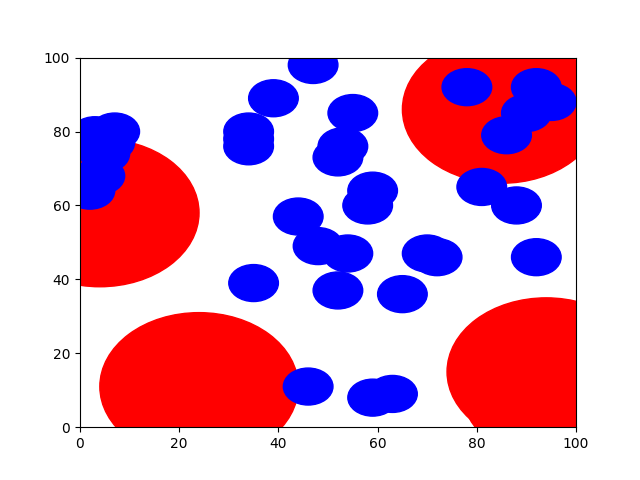
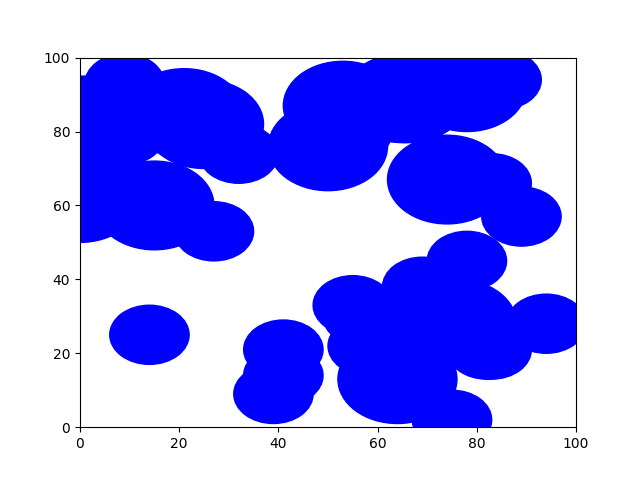
Add files via upload

diff --git a/genetic2.py b/genetic2.py
@@ -4,16 +4,21 @@
 #The authors of this paper are Yourim Yoon and Yong-Hyuk Kim 
 import numpy as np 
 import time
+import matplotlib.pyplot as plt
+import matplotlib.animation as animation
+import scipy.integrate as integrate
 
 shape_ = (100, 100)
-num_iter = 500
+num_iter = 2
 iter_count_ = 0
 total_num_sensors_ = 40
-r1_num_sensors_ = 5
-n_samples_ = 100
-r2_num_sensors_ = 35
-radius_1_ = 20
-radius_2_ = 5
+r1_num_sensors_ = 15
+n_samples_ = 200 
+fittest_member_ = 0
+r2_num_sensors_ = 25
+radius_1_ = 12
+radius_2_ = 8
+area_max_possible_ = np.pi*(r1_num_sensors_*radius_1_**2 + r2_num_sensors_*radius_2_**2)
 sensor_array_ = np.zeros((total_num_sensors_, 3))
 population_ = 100
 selection_to_next_generation_ = 100 
@@ -81,6 +86,7 @@ def monte_carlo(i):
         if (temp_cover): 
             count = count + 1
     estimated_fraction = count/n_samples_
+    efficiency = (count*area_max_possible_)/(n_samples_*area)
     estimated_area = estimated_fraction*area
     #print("The estimated area is:", estimated_area)
     return estimated_fraction
@@ -105,9 +111,8 @@ def monte_carlo_2(input_string, i):
 
 def selection(): 
     global population_, selection_to_next_generation_, strings_population_
-    global fitness_population_, store_average_fitness_, iter_count_
+    global fitness_population_, store_average_fitness_, iter_count_, fittest_member_
     temp_strings_population_ = np.zeros((population_, total_num_sensors_, 3))
-    iter_count_ = iter_count_ + 1
     count = 0
     func_fitness = np.zeros(population_)
     for i in range(0, population_): 
@@ -135,8 +140,14 @@ def selection():
         fitness_new_population[i] = monte_carlo(i)
         #print("Fitness of member", i, "in new population is:", fitness_new_population[i])
     store_average_fitness_[iter_count_] = np.sum(fitness_new_population)/selection_to_next_generation_
+    iter_count_ = iter_count_ + 1
     print("Average fitness of population in iteration", iter_count_, 'is', np.sum(fitness_new_population)/selection_to_next_generation_)
     print("Max fitness of population in iteration", iter_count_, 'is', np.max(fitness_new_population)  )
+    if (np.max(fitness_new_population) > 0.92):
+        fittest_member_ = np.argmax(fitness_new_population) 
+
+
+
 #We shall be using a different mutation operator than what is mentioned in the paper
 #What the paper does: Use Gaussian mutation
 #What we do: completely change the x-component or y-component for a sensor  
@@ -144,15 +155,14 @@ def selection():
 def mutation():
     global population_, strings_population_, shape_
     global mutation_rate_, mutation_std_dev_, total_num_sensors_
-    sigma = 10
     for i in range(0, population_):
         for j in range(0, total_num_sensors_):
             a = np.random.uniform(0,1)
             if a < mutation_rate_:
-                strings_population_[i][j][1] = strings_population_[i][j][1] + int(np.random.normal(0, sigma)) # int(np.random.randint(0, shape_[0]-1 ))
+                strings_population_[i][j][1] = int(np.random.randint(0, shape_[0]-1 ))
             b = np.random.uniform(0,1)
             if b < mutation_rate_:
-                strings_population_[i][j][2] = strings_population_[i][j][2] + int(np.random.normal(0, sigma)) #int(np.random.randint(0, shape_[1]-1 ))
+                strings_population_[i][j][2] = int(np.random.randint(0, shape_[1]-1 ))
 
 #We are not using the crossover operator which the paper suggests (BLX-\alpha) operator
 #Instead we are using a more generic and weak crossover operator where we break the
@@ -189,3 +199,50 @@ if __name__ == "__main__":
         mutation()
         end_time = time.time()
         print("Cumulative execution time till iteration", iter_count_," = ", end_time - start_time )
+
+    # #print("The radii of sensors are", sensor_array_[:] )
+    # circles_sensors_ = [0]*total_num_sensors_
+    # fig, ax = plt.subplots()
+
+    # for i in range(0, total_num_sensors_):
+    #     if i < r1_num_sensors_:
+    #         circles_sensors_[i] = plt.Circle((strings_population_[fittest_member_][i][1], strings_population_[fittest_member_][i][2]), strings_population_[fittest_member_][i][0], color = 'b')
+    #     else:
+    #         circles_sensors_[i] = plt.Circle((strings_population_[fittest_member_][i][1], strings_population_[fittest_member_][i][2]), strings_population_[fittest_member_][i][0], color = 'b')
+    #     ax.add_patch(circles_sensors_[i])
+    # ax.set_xlim(xmin = 0, xmax= shape_[0])
+    # ax.set_ylim(ymin = 0, ymax = shape_[1])
+
+    # fig.savefig('genetic_output.png')
+    # plt.show()
+
+    fig = plt.figure()
+    fig.subplots_adjust(left=0, right=1, bottom=0, top=1)
+    ax = fig.add_subplot(111, aspect='equal', autoscale_on=False,
+                        xlim=(0, shape_[0]), ylim=(0, shape_[1]))
+    particles, = ax.plot([], [], 'bo', ms=6)
+    rect = plt.Rectangle((0,0),shape_[0], shape_[1], ec='none', lw=2, fc='none')
+    ax.add_patch(rect)
+
+    def init_animation():
+        global strings_population_, rect
+        particles.set_data([], [])
+        particles.set_color("red")
+        rect.set_edgecolor('none')
+        return particles, rect
+    
+    def animate(i):
+        global count_, current_locations_, current_velocities_, terrain_map_
+        selection()
+        weak_crossover()
+        mutation()
+        count_ = count_ + 1
+        ms = int(fig.dpi * 2 * 0.2 * fig.get_figwidth()/ np.diff(ax.get_xbound())[0])
+        rect.set_edgecolor('k')
+        particles.set_data(current_locations_[:,1], current_locations_[:,0])
+        particles.set_markersize(ms)
+        return particles, rect
+    
+    ani = animation.FuncAnimation(fig, animate, frames=600,
+                              interval=100, blit=True, init_func=init_animation)
+    plt.show()
